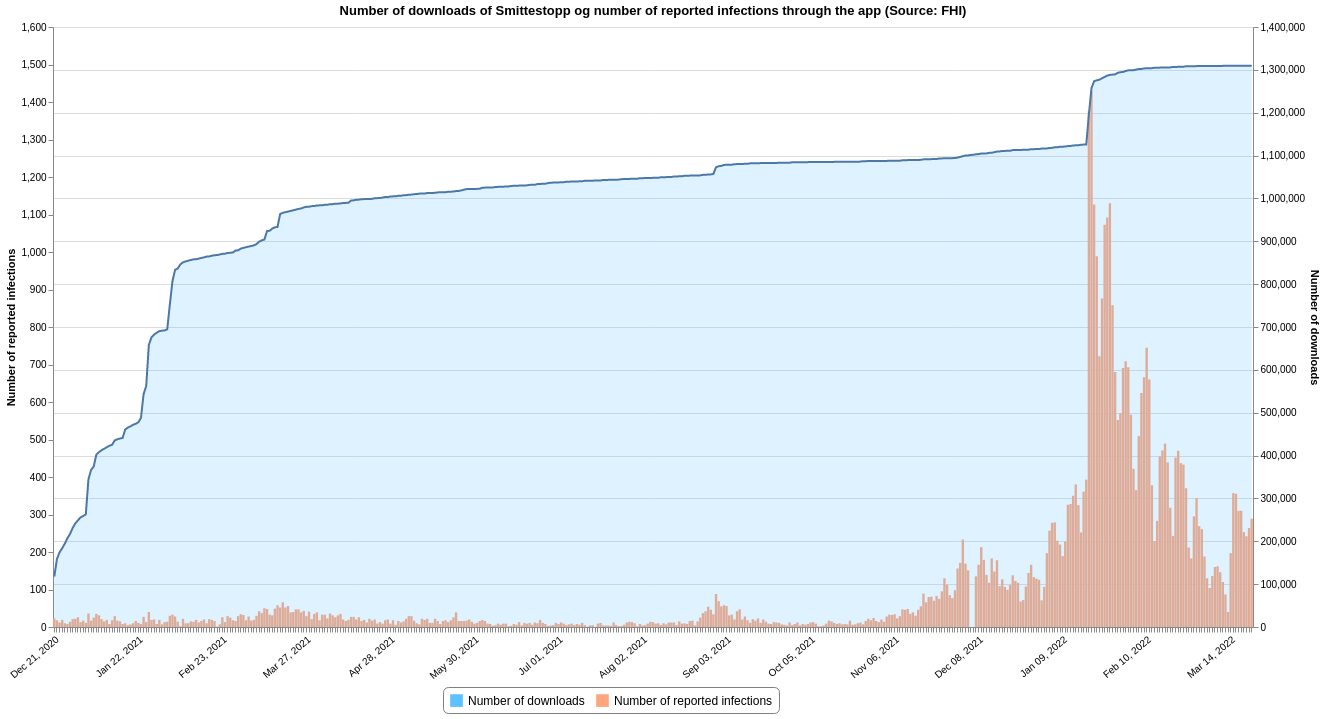
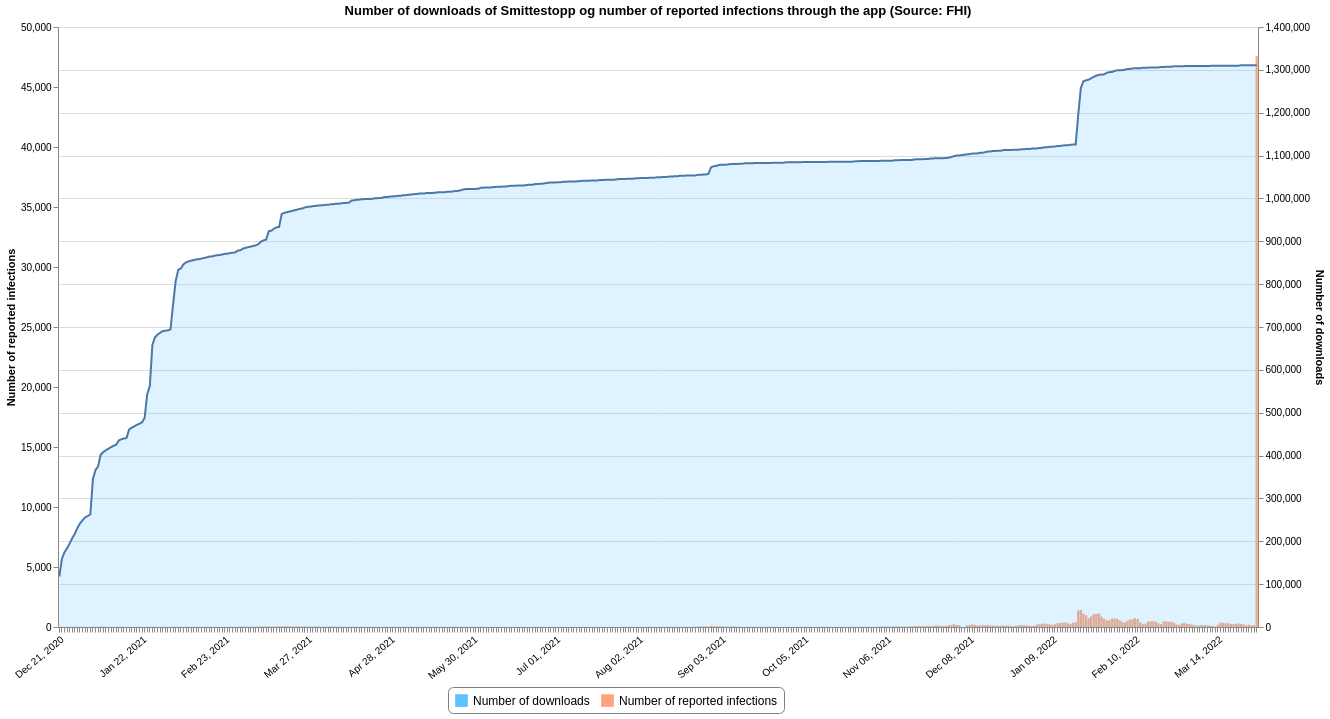
Updated 2022-03-30 12:21

diff --git a/README.md b/README.md
@@ -17,7 +17,7 @@ This repository contains datasets of daily time-series data related to COVID-19 
 |[Tested Lab](#tested_labcsv)|FHI|2022-03-29 13:20:46+02:00|[<center>csv</center>](https://raw.githubusercontent.com/frefrik/covid19norge-data/main/data/tested_lab.csv)|[<center>preview</center>](data/tested_lab.csv)|
 |[Transport](#transportcsv)|FHI|2021-09-24 23:10:46+02:00|[<center>csv</center>](https://raw.githubusercontent.com/frefrik/covid19norge-data/main/data/transport.csv)|[<center>preview</center>](data/transport.csv)|
 |[Vaccine Doses](#vaccine_dosescsv)|FHI|2022-03-29 13:20:50+02:00|[<center>csv</center>](https://raw.githubusercontent.com/frefrik/covid19norge-data/main/data/vaccine_doses.csv)|[<center>preview</center>](data/vaccine_doses.csv)|
-|[Smittestopp](#smittestoppcsv)|FHI|2022-03-23 12:10:55+01:00|[<center>csv</center>](https://raw.githubusercontent.com/frefrik/covid19norge-data/main/data/smittestopp.csv)|[<center>preview</center>](data/smittestopp.csv)|
+|[Smittestopp](#smittestoppcsv)|FHI|2022-03-30 12:21:14+02:00|[<center>csv</center>](https://raw.githubusercontent.com/frefrik/covid19norge-data/main/data/smittestopp.csv)|[<center>preview</center>](data/smittestopp.csv)|
 |[Omicron](#omicroncsv)|FHI|2021-12-22 10:11:05+01:00|[<center>csv</center>](https://raw.githubusercontent.com/frefrik/covid19norge-data/main/data/omicron.csv)|[<center>preview</center>](data/omicron.csv)|
 <!-- table ends -->
 
